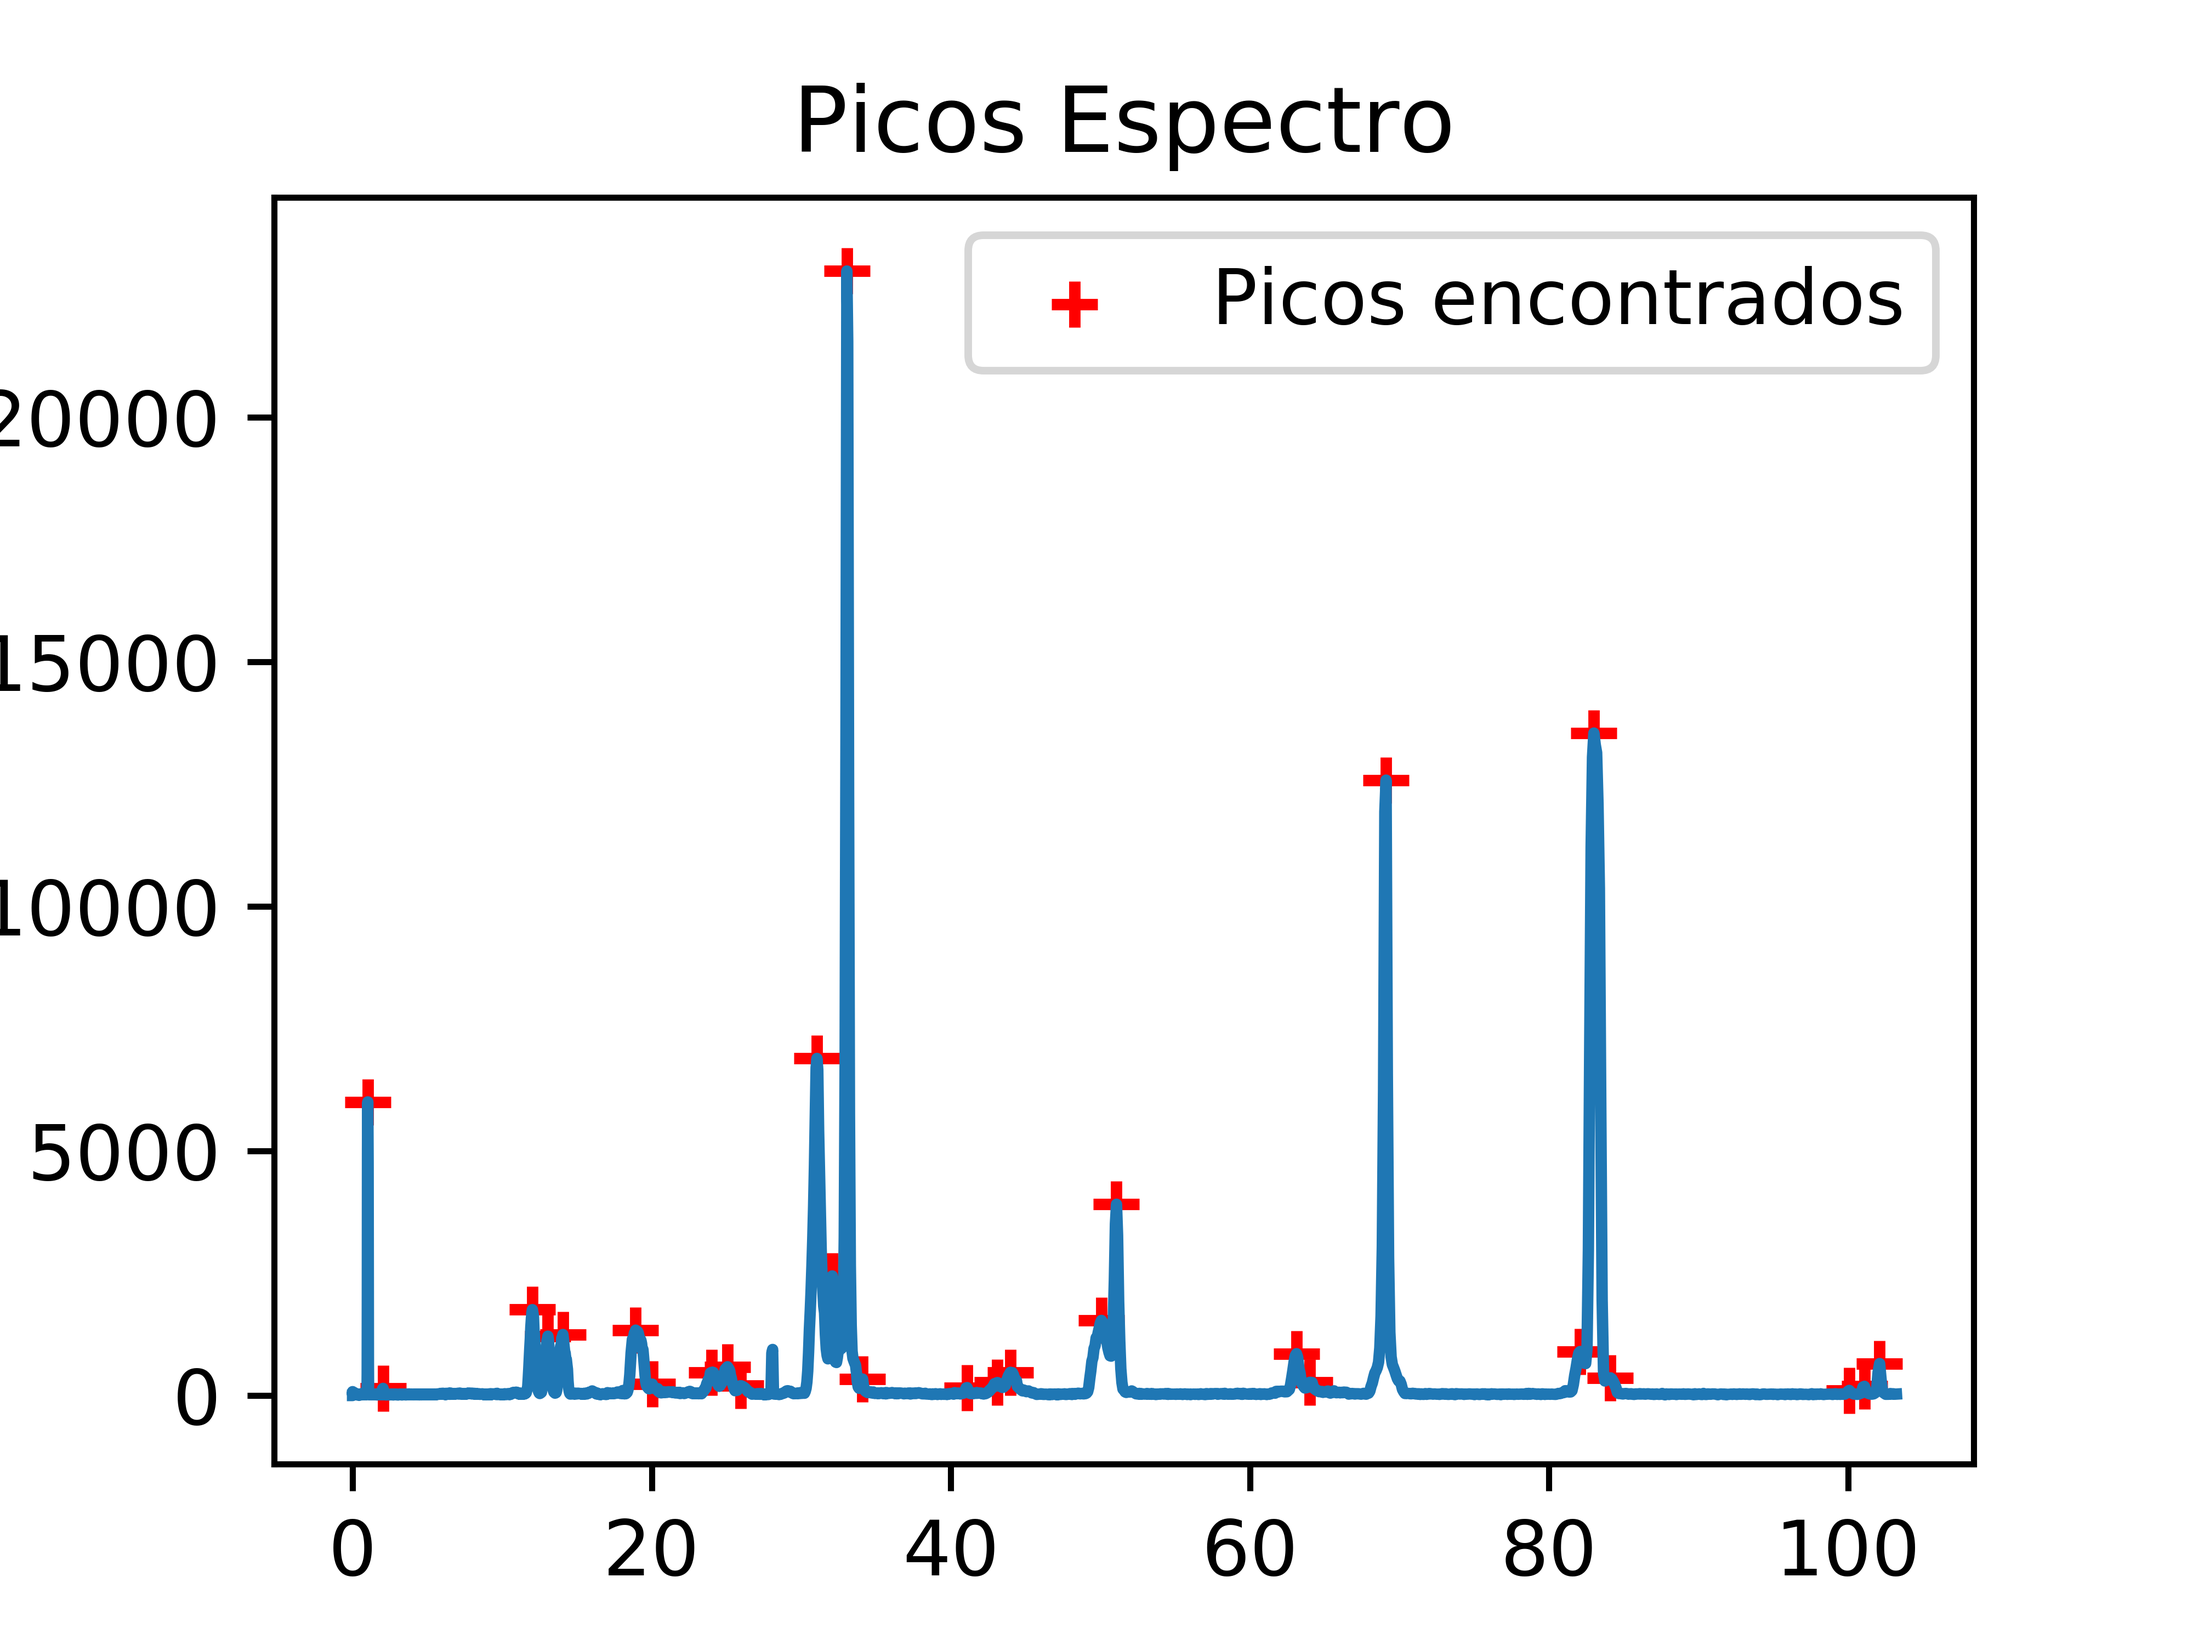
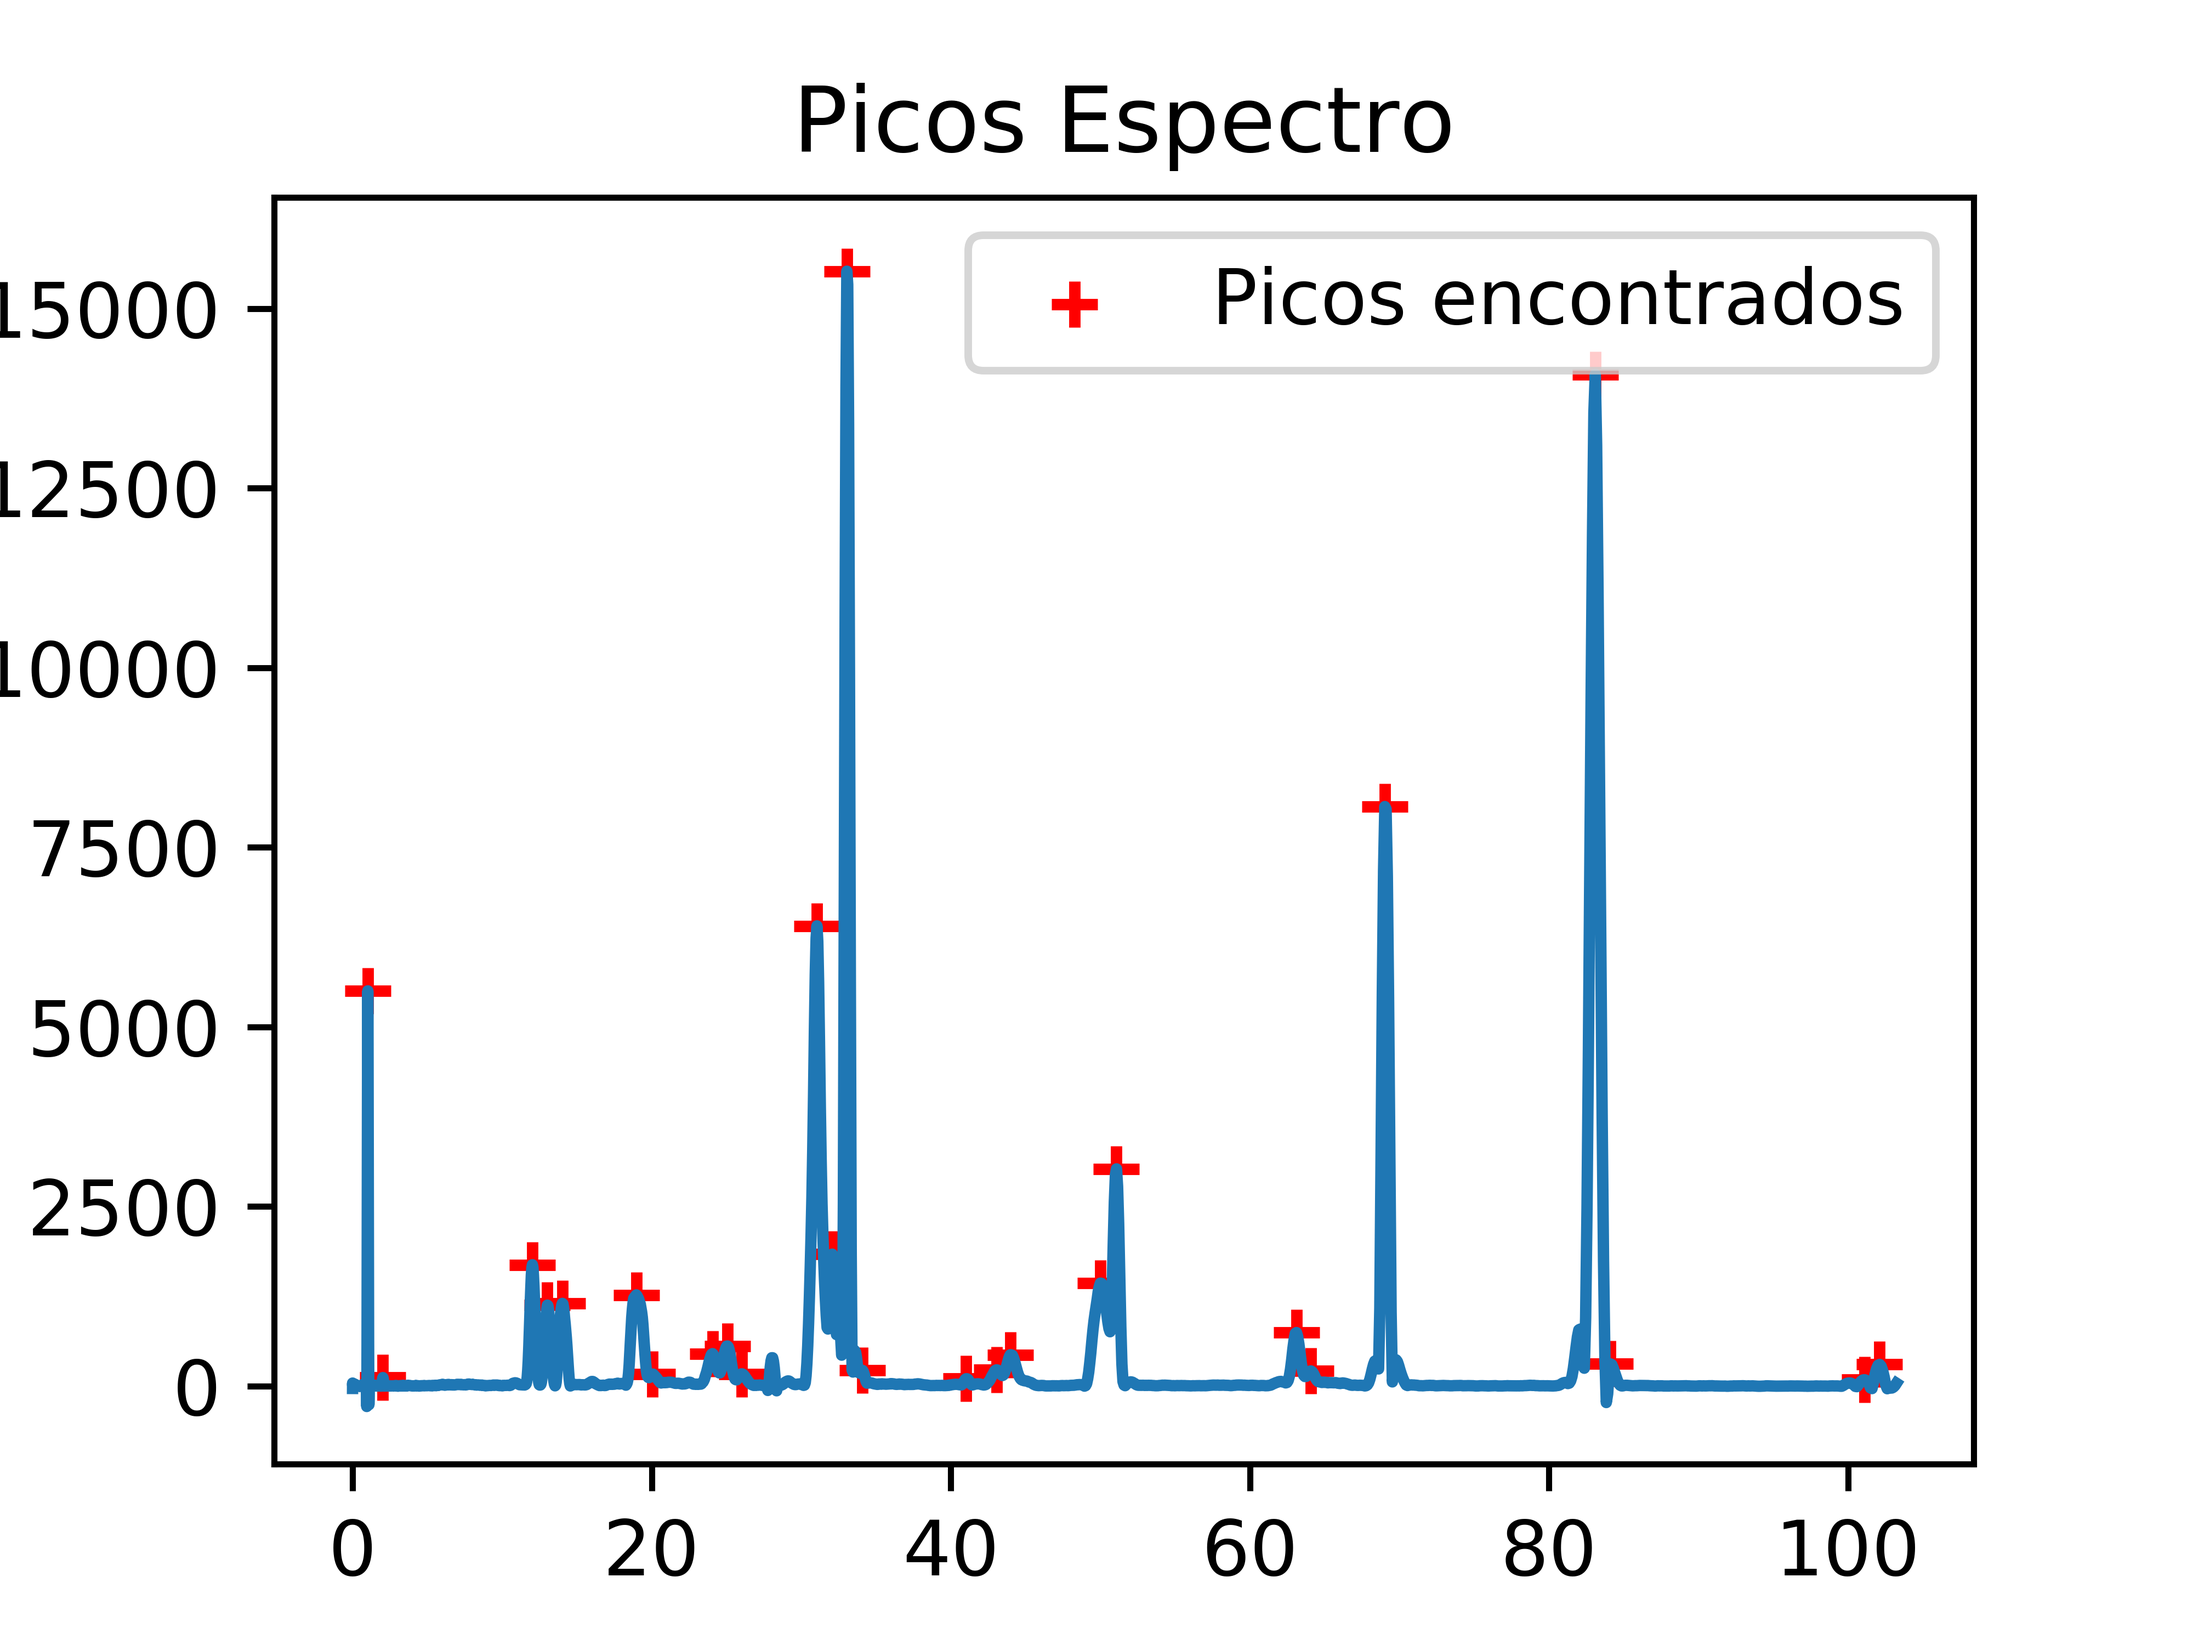
Add files via upload

diff --git a/testes/gau.py b/testes/gau.py
@@ -8,7 +8,7 @@ y_array = open('y_array.txt', 'w')
 
 MQ = "MassWave.txt"
 mq = np.loadtxt(MQ)
-#print(mq)
+# print(mq)
 i = 0
 with open(MQ, 'r') as f:
     for line in f:
@@ -29,8 +29,7 @@ for i in range(12, nLinhas + 12, 1):
     y_array.write('' + str(icounts[i]) + '\n')
 y_array.close()
 yp = np.loadtxt("y_array.txt")
-#dados.write('xp e yp pico \n')
-#dados.write('' + str(mq) + '\n' + str(yp) + '\n')
+
 
 def linear(x, a, b):
     return a * x + b
@@ -40,31 +39,39 @@ aa = 0
 bb = 0
 ix1 = 109
 ix2 = nLinhas - 109
-for i in range(1, 42, 1):
+for i in range(0, 41, 1):
     aa = aa + yp[109 + i]
     bb = bb + yp[nLinhas - 109 - i]
-
 aa = aa / 41
 bb = bb / 41
+
+mqlin = np.zeros(82)
+yplin = np.zeros(82)
+for i in range(0, 41, 1):
+    mqlin[i] = mq[109 + i]
+    mqlin[81 - i] = mq[nLinhas - 109 - i]
+    yplin[i] = yp[109 + i]
+    yplin[81 - i] = yp[nLinhas - 109 - i]
+print(yplin)
 
 bcoef = (bb - aa) / (ix2 - ix1)
 acoef = aa - bcoef * ix1
 
-popt_linear, pcov_linear = scipy.optimize.curve_fit(linear, mq, yp, p0=[bcoef, acoef])
+popt_linear, pcov_linear = scipy.optimize.curve_fit(linear, mqlin, yplin, p0=[bcoef, acoef])
 
 fig = plt.figure(figsize=(4, 3))
 plt.plot(mq, yp)
 plt.plot(mq, linear(mq, *popt_linear), 'k--')
 plt.show()
 
+base = linear(mq, *popt_linear)
+yp = yp - base
+yp = scipy.signal.savgol_filter(yp, 11, 2)
 
-picos, _ = scipy.signal.find_peaks(yp, height=100, threshold=None, distance=10, width=1.5)
 
+picos, _ = scipy.signal.find_peaks(yp, height=100-base, threshold=None, distance=10, width=1.5)
 
-#print(picos)
-#print(mq[picos])
-#print(yp[picos])
-picos = np.delete(picos, [10])
+picos = np.delete(picos, [10, 23])
 print(picos)
 print(mq[picos])
 print(yp[picos])
@@ -114,7 +121,7 @@ area = np.zeros(len(picos))
 areatot = 0
 while c < (3 * len(picos)) and i < len(picos):
     pico_gauss = gaussiana1(mq, popt2[c], popt2[c + 1], popt2[c + 2])
-    area[i] = np.trapz(pico_gauss, x=mq, dx=0.001)
+    area[i] = np.trapz(pico_gauss, x=mq, dx=0.001, axis=0)
     areatot = areatot + area[i]
     dados.write('\nPico de m/q experimental = ' + str(mq[picos[i]]) +
                 '\nArea:      ' + str(area[i]) +
@@ -139,5 +146,6 @@ plt.tick_params(axis='both', which='major', direction="out", top="on", right="on
 plt.tick_params(axis='both', which='minor', direction="out", top="on", right="on", bottom="on", length=5, labelsize=8)
 fig.tight_layout()
 fig.savefig("fitgau.png", format="png", dpi=1000)
+plt.show()
 
 dados.close()
